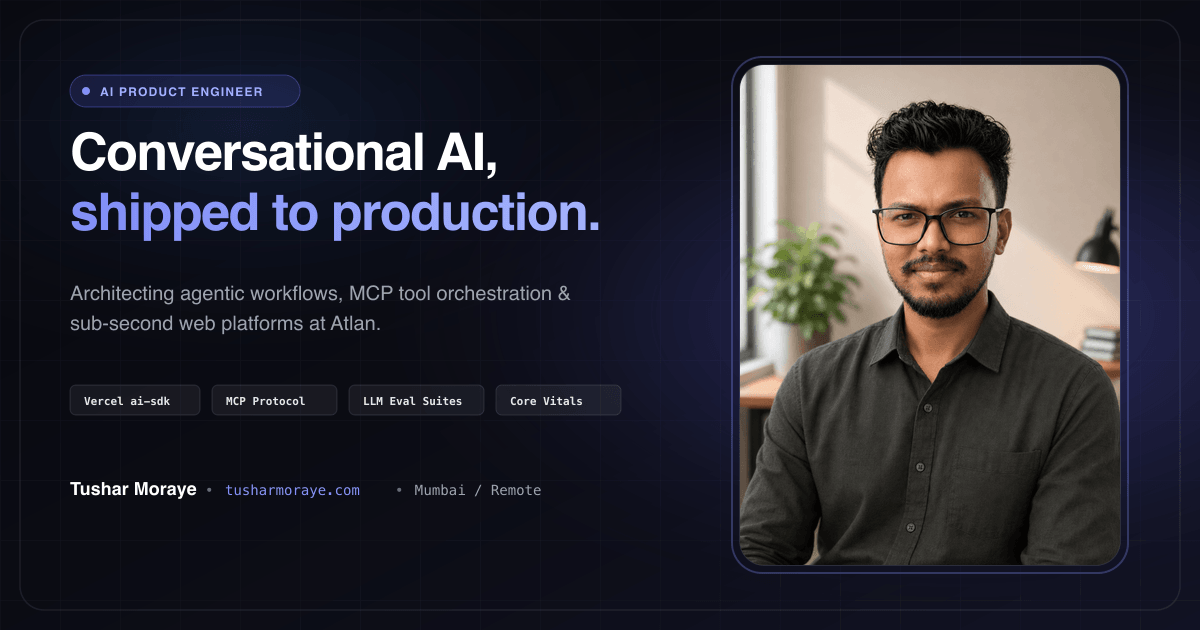
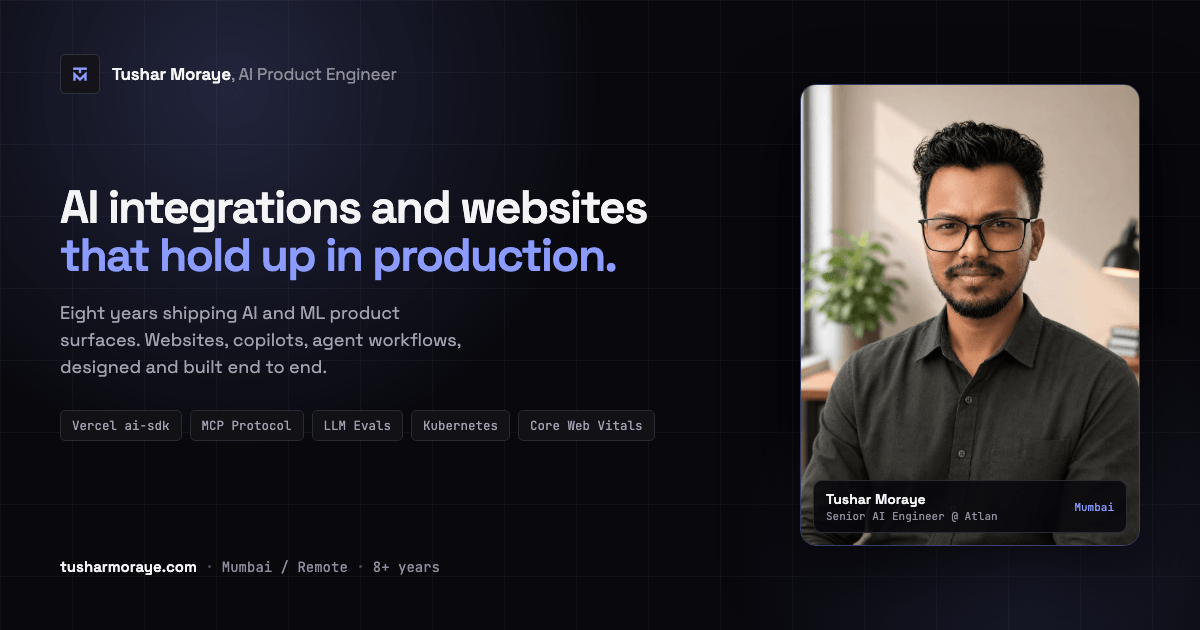
feat(seo): regenerate the social card against the current hero
The old og.png still carried the previous copy, "Conversational AI, shipped to
production", and a subhead naming Atlan. It also predated the TM mark. Anyone
sharing a link saw a headline the page no longer has.

Rebuild it from the live hero strings, with the TM mark in the brand lockup and
the same rule grid, accent and type as the site.

Add scripts/og-card.html as the source for the card. It pulls the fonts out of
node_modules and the portrait out of src/assets, so the card cannot drift from
the site's typography, and it carries the regeneration steps in a comment.

Claude-Session: https://claude.ai/code/session_01NnB5wWH2QKDpohsHiGQxgG

diff --git a/scripts/og-card.html b/scripts/og-card.html
@@ -1,0 +1,108 @@
+<!--
+  Source for src/assets/og.png, the 1200x630 social card.
+
+  Keep the copy here in sync with the hero in src/components/Hero.astro; a
+  stale card is the failure mode this file exists to prevent.
+
+  To regenerate, render this page at exactly 1200x630 with a headless browser
+  and screenshot the .card element, e.g. with the gstack browse tool:
+
+    browse viewport 1200x630 --scale 1
+    browse goto file://./scripts/og-card.html
+    browse screenshot --selector .card src/assets/og.png
+
+  Fonts and the portrait are pulled straight from the project so the card
+  cannot drift from the site's typography.
+-->
+<style>
+@font-face{font-family:SG;src:url(../node_modules/@fontsource-variable/space-grotesk/files/space-grotesk-latin-wght-normal.woff2) format('woff2');font-weight:100 900;font-display:block}
+@font-face{font-family:JB;src:url(../node_modules/@fontsource-variable/jetbrains-mono/files/jetbrains-mono-latin-wght-normal.woff2) format('woff2');font-weight:100 800;font-display:block}
+*{margin:0;padding:0;box-sizing:border-box}
+html,body{width:1200px;height:630px;overflow:hidden}
+.card{position:relative;width:1200px;height:630px;background:#08080d;color:#f4f4f7;
+  font-family:SG,system-ui,sans-serif;overflow:hidden}
+/* rule grid, same 72px cell as the site */
+.grid{position:absolute;inset:0;
+  background-image:linear-gradient(to right,rgba(255,255,255,.035) 1px,transparent 1px),
+                   linear-gradient(to bottom,rgba(255,255,255,.035) 1px,transparent 1px);
+  background-size:72px 72px}
+.glow{position:absolute;width:900px;height:700px;left:-220px;top:-260px;border-radius:50%;
+  background:radial-gradient(circle,rgba(139,155,255,.20),transparent 66%);filter:blur(10px)}
+.glow2{position:absolute;width:620px;height:620px;right:-140px;bottom:-260px;border-radius:50%;
+  background:radial-gradient(circle,rgba(139,155,255,.12),transparent 68%)}
+.inner{position:relative;height:100%;display:flex;padding:54px 60px}
+.left{flex:1;display:flex;flex-direction:column;padding-right:40px}
+
+.brand{display:flex;align-items:center;gap:12px}
+.mark{width:40px;height:40px;border:1px solid #33333d;border-radius:5px;background:#131319;
+  display:grid;place-items:center}
+.brandname{font-size:17px;font-weight:600;letter-spacing:-.01em}
+.brandname span{color:#8f8f9c;font-weight:400}
+
+h1{margin-top:auto;font-size:46px;line-height:1.03;letter-spacing:-.035em;font-weight:600}
+h1 .accent{color:#8b9bff}
+p.sub{margin-top:20px;font-size:18px;line-height:1.5;color:#a1a1af;max-width:35ch}
+
+.chips{margin-top:30px;display:flex;gap:8px;flex-wrap:wrap}
+.chip{font-family:JB,monospace;font-size:12.5px;color:#a1a1af;border:1px solid #2a2a33;
+  background:#111117;border-radius:5px;padding:6px 11px}
+
+.foot{margin-top:auto;padding-top:26px;display:flex;align-items:center;gap:11px;
+  font-family:JB,monospace;font-size:14px;color:#8f8f9c}
+.foot b{font-family:SG;font-weight:600;color:#f4f4f7;font-size:15px}
+.foot .dot{width:3px;height:3px;border-radius:50%;background:#4a4a56}
+.foot .url{color:#8b9bff}
+
+.right{width:340px;display:flex;align-items:center}
+.frame{position:relative;width:340px;height:462px;border-radius:16px;overflow:hidden;
+  border:1px solid rgba(139,155,255,.34);box-shadow:0 26px 70px rgba(0,0,0,.6)}
+.frame img{width:100%;height:100%;object-fit:cover;display:block}
+.badge{position:absolute;left:12px;right:12px;bottom:12px;display:flex;align-items:center;
+  justify-content:space-between;background:rgba(8,8,13,.86);border:1px solid #2a2a33;
+  border-radius:9px;padding:9px 12px}
+.badge .n{font-size:14px;font-weight:600}
+.badge .r{font-family:JB,monospace;font-size:11px;color:#8f8f9c;margin-top:1px}
+.badge .loc{font-family:JB,monospace;font-size:11px;color:#8b9bff}
+</style>
+<div class="card">
+  <div class="grid"></div><div class="glow"></div><div class="glow2"></div>
+  <div class="inner">
+    <div class="left">
+      <div class="brand">
+        <div class="mark">
+          <svg width="22" height="22" viewBox="0 0 64 64" fill="none" stroke="#8b9bff" stroke-width="7">
+            <path d="M12 16.5H52"/><path d="M32 16.5V29.5"/><path d="M16 51.5V32.5L32 48.5L48 32.5V51.5"/>
+          </svg>
+        </div>
+        <div class="brandname">Tushar Moraye<span>, AI Product Engineer</span></div>
+      </div>
+
+      <h1>AI integrations and websites<br><span class="accent">that hold up in production.</span></h1>
+      <p class="sub">Eight years shipping AI and ML product surfaces. Websites, copilots, agent workflows, designed and built end to end.</p>
+
+      <div class="chips">
+        <div class="chip">Vercel ai-sdk</div>
+        <div class="chip">MCP Protocol</div>
+        <div class="chip">LLM Evals</div>
+        <div class="chip">Kubernetes</div>
+        <div class="chip">Core Web Vitals</div>
+      </div>
+
+      <div class="foot">
+        <b>tusharmoraye.com</b>
+        <div class="dot"></div><span>Mumbai / Remote</span>
+        <div class="dot"></div><span>8+ years</span>
+      </div>
+    </div>
+
+    <div class="right">
+      <div class="frame">
+        <img src="../src/assets/hero/tushar_portrait.jpg" alt="">
+        <div class="badge">
+          <div><div class="n">Tushar Moraye</div><div class="r">Senior AI Engineer @ Atlan</div></div>
+          <div class="loc">Mumbai</div>
+        </div>
+      </div>
+    </div>
+  </div>
+</div>
